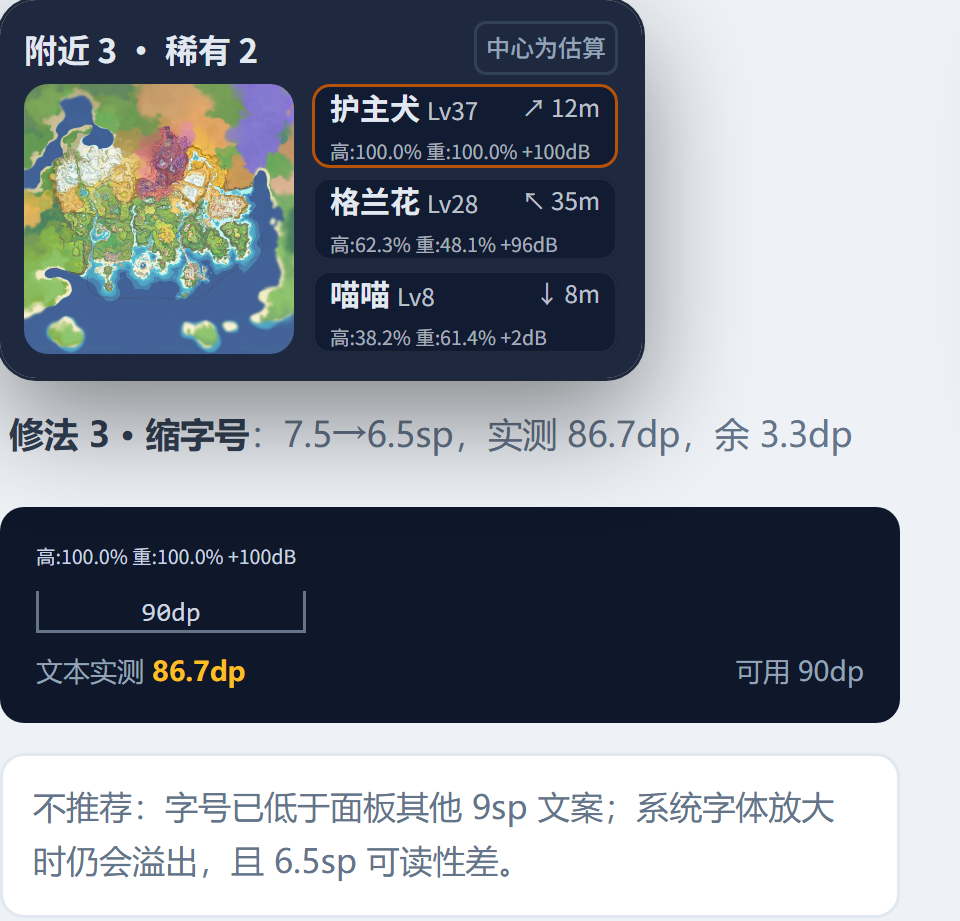
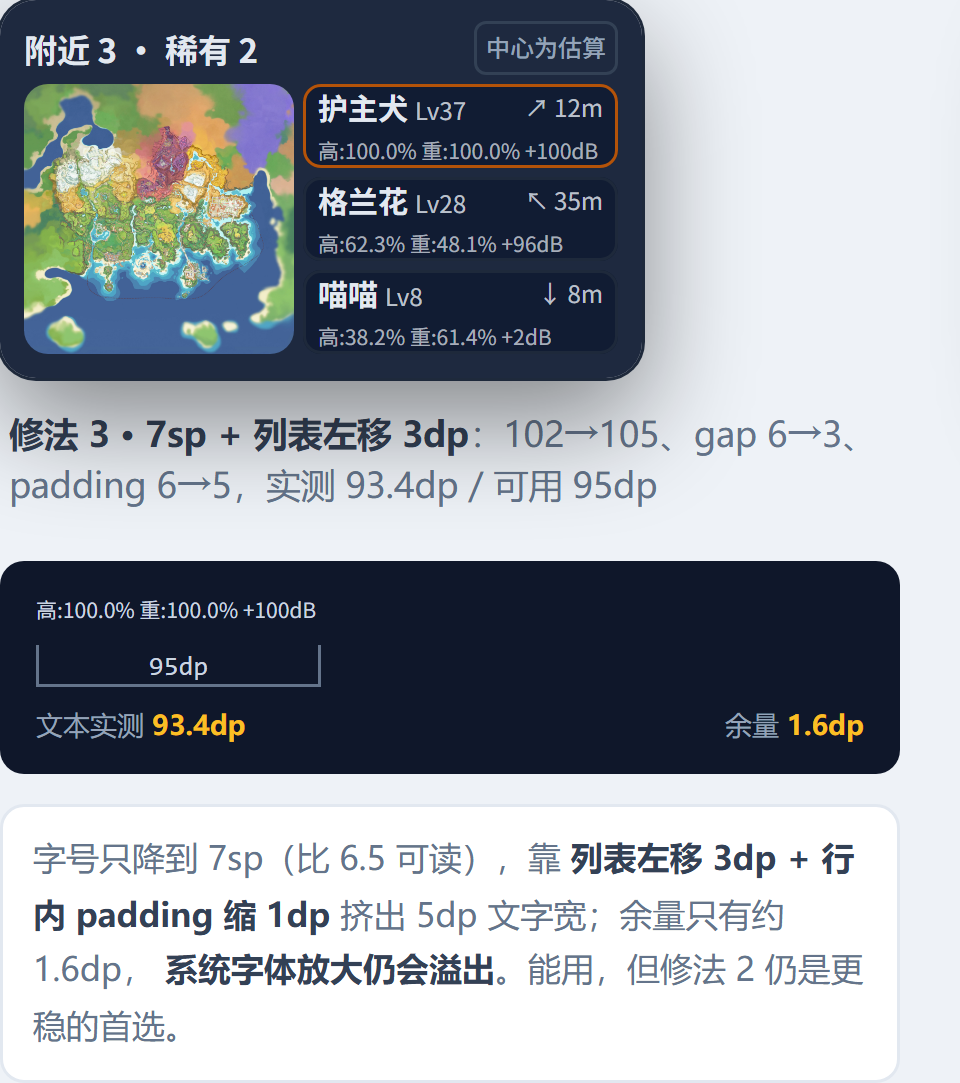
docs(u4): 修法3 改 7sp 并把列表左移 3dp 挤出 5dp 文字宽

diff --git a/docs/preview/U4-附近精灵展示优化-方案-2026-11-25.html b/docs/preview/U4-附近精灵展示优化-方案-2026-11-25.html
@@ -171,6 +171,11 @@
   .p-row.demand.rare{box-shadow:inset 0 0 0 1px #be123c;}
   .p-row .bar{position:absolute; left:0; top:4px; bottom:4px; width:3px; border-radius:1.5px; background:#f43f5e;}
   .p-row.tall{height:40px;}
+  /* 修法 3：7sp + 列表左移 3dp；列表 102→105、gap 6→3、行内 padding 6→5（文字可用 95dp） */
+  .p.compact .p-body{gap:3px;}
+  .p.compact .p-list{width:105px;}
+  .p.compact .p-row{padding:0 5px;}
+  .p.compact .p-line2{font-size:7px;}
   .p-head{height:16px; display:flex; align-items:center; gap:4px;}
   .p-name{min-width:0; flex:1; font-size:10px; line-height:16px; font-weight:600; white-space:nowrap; overflow:hidden; text-overflow:ellipsis;}
   .p-lv{font-size:8px; line-height:16px; font-weight:400; color:rgba(226,232,240,.82); flex:none;}
@@ -455,34 +460,35 @@
   </div>
 
   <div class="panel-fig">
-    <div class="p" id="panel-small">
+    <div class="p compact" id="panel-small">
       <div class="p-title"><span>附近 3 · 稀有 2</span><span class="badge">中心为估算</span></div>
       <div class="p-body">
         <div class="p-map"><img src="../../public/maps/10003.webp" alt="" /></div>
         <div class="p-list">
           <div class="p-row rare">
             <div class="p-head"><span class="p-name">护主犬 <span class="p-lv">Lv37</span></span><span class="p-dist">↗ 12m</span></div>
-            <div class="p-line2 small" style="font-size:6.5px">高:100.0% 重:100.0% +100dB</div>
+            <div class="p-line2">高:100.0% 重:100.0% +100dB</div>
           </div>
           <div class="p-row">
             <div class="p-head"><span class="p-name">格兰花 <span class="p-lv">Lv28</span></span><span class="p-dist">↖ 35m</span></div>
-            <div class="p-line2" style="font-size:6.5px">高:62.3% 重:48.1% +96dB</div>
+            <div class="p-line2">高:62.3% 重:48.1% +96dB</div>
           </div>
           <div class="p-row">
             <div class="p-head"><span class="p-name">喵喵 <span class="p-lv">Lv8</span></span><span class="p-dist">↓ 8m</span></div>
-            <div class="p-line2" style="font-size:6.5px">高:38.2% 重:61.4% +2dB</div>
+            <div class="p-line2">高:38.2% 重:61.4% +2dB</div>
           </div>
         </div>
       </div>
     </div>
-    <div class="cap"><b>修法 3 · 缩字号</b>：7.5→6.5sp，实测 86.7dp，余 3.3dp</div>
-    <div class="line-zoom" style="--avail:90px">
-      <div class="t" style="font-size:6.5px">高:100.0% 重:100.0% +100dB</div>
-      <div class="ruler"><span>90dp</span></div>
-      <div class="m"><span>文本实测 <b data-w6_5="高:100.0% 重:100.0% +100dB">—</b></span><span>可用 90dp</span></div>
+    <div class="cap"><b>修法 3 · 7sp + 列表左移 3dp</b>：102→105、gap 6→3、padding 6→5，实测 93.4dp / 可用 95dp</div>
+    <div class="line-zoom" style="--avail:95px">
+      <div class="t" style="font-size:7px">高:100.0% 重:100.0% +100dB</div>
+      <div class="ruler"><span>95dp</span></div>
+      <div class="m"><span>文本实测 <b data-w7="高:100.0% 重:100.0% +100dB">—</b></span><span>余量 <b data-free7="高:100.0% 重:100.0% +100dB">—</b></span></div>
     </div>
     <div class="panel-anno">
-      不推荐：字号已低于面板其他 9sp 文案；系统字体放大时仍会溢出，且 6.5sp 可读性差。
+      字号只降到 7sp（比 6.5 可读），靠 <b>列表左移 3dp + 行内 padding 缩 1dp</b> 挤出 5dp 文字宽；余量只有约 1.6dp，
+      <b>系统字体放大仍会溢出</b>。能用，但修法 2 仍是更稳的首选。
     </div>
   </div>
 
@@ -743,8 +749,11 @@
   document.querySelectorAll('.line-zoom [data-w]').forEach((el) => {
     el.textContent = `${measure(el.dataset.w, 7.5, OVERLAY_STACK)}dp`;
   });
-  document.querySelectorAll('[data-w6_5]').forEach((el) => {
-    el.textContent = `${measure(el.dataset.w6_5, 6.5, OVERLAY_STACK)}dp`;
+  document.querySelectorAll('[data-w7]').forEach((el) => {
+    el.textContent = `${measure(el.dataset.w7, 7, OVERLAY_STACK)}dp`;
+  });
+  document.querySelectorAll('[data-free7]').forEach((el) => {
+    el.textContent = `${(95 - measure(el.dataset.free7, 7, OVERLAY_STACK)).toFixed(1)}dp`;
   });
   document.querySelectorAll('[data-free]').forEach((el) => {
     el.textContent = `${(90 - measure(el.dataset.free, 7.5, OVERLAY_STACK)).toFixed(1)}dp`;

diff --git a/docs/方案-附近精灵展示优化-2026-11-25.md b/docs/方案-附近精灵展示优化-2026-11-25.md
@@ -173,7 +173,7 @@
 | `高:62.3% 重:48.1% +96dB`（普通） | 87.6dp | 90dp | 只剩 2.4dp，字宽一变就截 |
 | `高100 重100 +100dB`（修法 2） | **69.6dp** | 90dp | 余量 20.4dp |
 | `高100 重100 -100dB`（修法 2 负分贝） | 68dp | 90dp | 余量 22dp |
-| `高:100.0% 重:100.0% +100dB` @6.5sp（修法 3） | **86.7dp** | 90dp | 余量仅 3.3dp |
+| `高:100.0% 重:100.0% +100dB` @7sp（修法 3，列表左移 3dp） | **93.4dp** | **95dp** | 余量仅 1.6dp |
 
 > 根因不是「声音太长」，而是**整行用了完整格式 + 单行省略**；`pctText` 的 `100.0%` 和 `高:`/`重:` 占了 30dp 的可省空间。
 
@@ -183,7 +183,9 @@
 | --- | --- | --- | --- | --- |
 | 1 · 换行 | 第二行只放 `高/重`，声音另起一行；行高 28→40 | 任何组合都不截断 | 列表 90 高只剩 2 行可见；要保 3 行则面板 126→162，**面板高度公式/规格一起改** | ![修法1](preview/U4-悬浮窗-修法1-换行.png) |
 | **2 · 缩写（推荐）** | `高100 重100 +100dB`：去 `:` 和尾部 `.0`，保留一位小数 | 69.6dp，声音完整 | 只改文本生成；**不改行高、不改面板** | ![修法2](preview/U4-悬浮窗-修法2-缩写.png) |
-| 3 · 缩字号 | 7.5sp → 6.5sp | 86.7dp，勉强放下 | 已小于面板 9sp 文案；系统字体放大仍会溢出；可读性差 | ![修法3](preview/U4-悬浮窗-修法3-小字号.png) |
+| 3 · 7sp + 列表左移 | 字号 7.5→7sp；`LIST_GAP` 6→3、`LIST_WIDTH` 102→105、行内左右 padding 6→5（文字可用 90→95dp）；面板 214 不变、右缘不变 | 93.4dp / 95dp，余 1.6dp | 系统字体放大仍会溢出；7sp 仍小于面板 9sp 文案 | ![修法3](preview/U4-悬浮窗-修法3-小字号.png) |
+
+**修法 3 的新几何**：`LIST_GAP` 6→3、`LIST_WIDTH` 102→105、行内 padding 6→5，文字可用从 90 提到 **95dp**；面板总宽 214 不变，卡片右缘不动，只往地图方向贴 3dp。7sp 全串 93.4dp，余 1.6dp。
 
 **推荐修法 2**，并建议加一层兜底：第二行改成横向 `LinearLayout`，左侧高/重 `weight=1` 可省略，右侧声音 `wrap_content` 不省略——这样即使以后加字段，声音也永远完整。只做「缩写」实现最小；加兜底再 +20~25 行。
 
@@ -207,7 +209,7 @@
 | 修法 2（推荐） | `NearbyOverlayModel.java` 新增 `pctCompact` + 改 `metaTextLine2` | +10~15 行 | `NearbyOverlayModelTest.java:220` 期望值要改（`高12.3 重0.2 +15dB`）；`pctText` 的 288-293 不用动 |
 | 声音不截断兜底 | `NearbyPanelController.java:844-848` 改成两个 TextView | +20~25 行 | 无单测（纯 View），需真机/截图验收 |
 | 修法 1（换行） | 上面 + `ROW_HEIGHT`/面板高度/规格文档 | +40~60 行 | `panelHeight` / `listHeight` 用例（`NearbyOverlayModelTest.java:160-199`）要跟着改 |
-| 修法 3 | 只改 `setTextSize` 7.5→6.5 | 1 行 | 无 | 
+| 修法 3 | `LIST_GAP` 6→3、`LIST_WIDTH` 102→105、行内 padding 6→5、`setTextSize` 7.5→7 | +10~15 行 | 无单测（纯布局/字号），需真机/截图验收 | 
 
 > `docs/手机悬浮窗-面板规格.md:82`（1.3.1 第 2 行示例）也要同步改成缩写格式。
 
